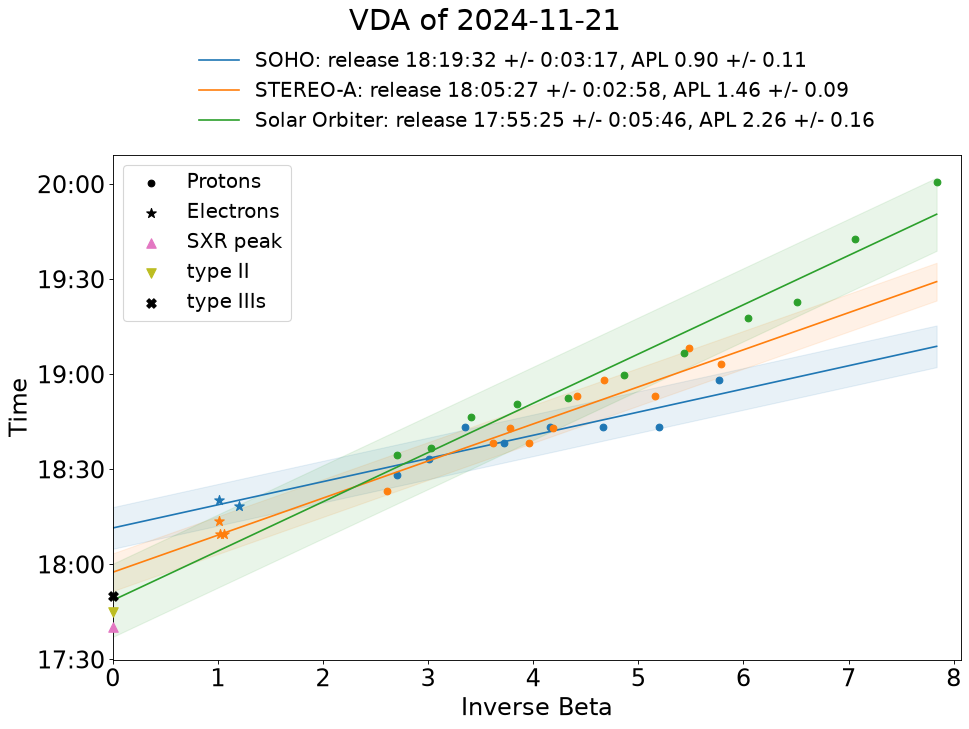
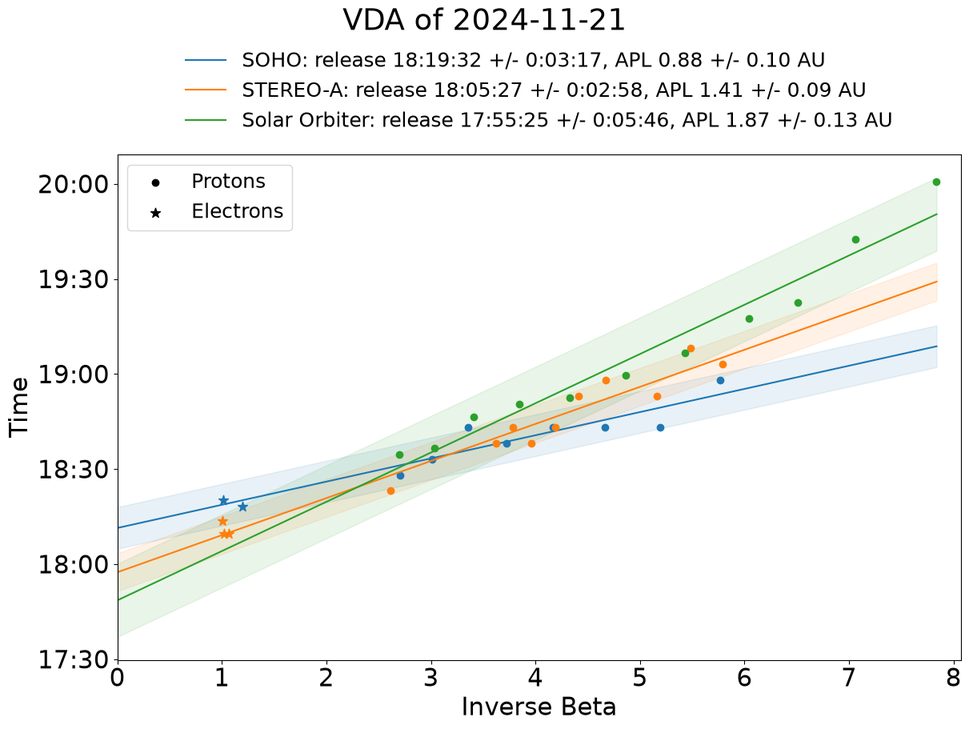
APL in AU
The apparent path length is the path length of the slope of the VDA fit,
L = a * c, in AU. It was divided by the distance of the observer from the
Sun, which made it too large by the factor 1 / distance (e.g. 1.76 instead
of 1.42 AU for Solar Orbiter at 0.80 AU in the default event). The unit is
shown in the printed results and the VDA plots. The release times are
unchanged.

diff --git a/src/spearhead/vda/analysis.py b/src/spearhead/vda/analysis.py
@@ -31,6 +31,10 @@ from .observers import OBSERVERS
 # Rest mass energy of the particles, in MeV
 M_REST = {"protons": 938.27, "electrons": 0.511}
 
+# Light travel time over 1 AU, in seconds: the slope of the VDA line (seconds per inverse beta) divided by it is the
+# path length in AU
+AU_LIGHT_SECONDS = (u.AU / const.c).to(u.s).value
+
 
 def mean_energy(low_energy, high_energy) -> float:
     """Energy of a channel (the geometric mean of its range) in MeV. A single energy has low_energy == high_energy"""
@@ -46,8 +50,8 @@ def fit_vda(inv_betas, onset_seconds, t0, t_sun_to_observer, name) -> tuple:
     """Fits the VDA line of the points: onset_seconds (seconds after t0) against inv_betas.
 
     t_sun_to_observer is the light travel time from the Sun to the observer (seconds), and name names the points in
-    the messages (e.g. "event 1"). Returns the results (release time, extra time, APL and their errors) and the fit
-    (line t = a * inverse beta + b, with the error of b).
+    the messages (e.g. "event 1"). Returns the results (release time, extra time, APL in AU and their errors) and the
+    fit (line t = a * inverse beta + b, with the error of b). The APL is the path length L = a * c of the slope a.
     """
     try:
         p, V = np.polyfit(inv_betas, onset_seconds, 1, cov=True)
@@ -65,8 +69,8 @@ def fit_vda(inv_betas, onset_seconds, t0, t_sun_to_observer, name) -> tuple:
         "Release Time": (t0 + timedelta(seconds=b + t_sun_to_observer)).strftime('%Y-%m-%d %H:%M:%S'),
         "Release Time Error": timedelta(seconds=b_error),
         "Extra Time": timedelta(seconds=t_sun_to_observer),
-        "APL": a / t_sun_to_observer,
-        "APL Error": a_error / t_sun_to_observer,
+        "APL": a / AU_LIGHT_SECONDS,
+        "APL Error": a_error / AU_LIGHT_SECONDS,
     }
     fit = {"a": a, "b": b, "b_error": b_error}
     return results, fit
@@ -759,7 +763,7 @@ class VDA:
                 continue
             print(f"    Release Time : {res['Release Time']} ± {self.format_timedelta(res['Release Time Error'])}")
             print(f"    Extra Time   : {self.format_timedelta(res['Extra Time'])}")
-            print(f"    APL          : {res['APL']:.2f} ± {res['APL Error']:.2f}\n")
+            print(f"    APL          : {res['APL']:.2f} ± {res['APL Error']:.2f} AU\n")
 
     def compute_vda(self):
         """Fits the VDA line of each event and stores the results in self.results"""
@@ -821,7 +825,7 @@ class CustomPointsVDA:
 
     points: DataFrame with the "Onset Time", "Particle" ("protons" or "electrons"), "Low Energy" and "High Energy" (MeV)
     of each point. The energy of a point is the geometric mean of its range; a single energy has equal low and high.
-    distance: distance of the observer from the Sun (AU), for the light travel time (extra time) and the APL.
+    distance: distance of the observer from the Sun (AU), for the light travel time (extra time).
 
     As in VDA, compute_vda() stores the results in self.results and the fit in self.vda_fits, with the event number 1,
     so that views.plot_vda_combined can plot them.

diff --git a/tests/test_custom_points.py b/tests/test_custom_points.py
@@ -105,6 +105,21 @@ def test_custom_points_need_two_points(capsys):
     assert vda.results.loc[1].isna().all() and vda.vda_fits == {}
 
 
+def test_custom_points_published_path_length():
+    # the onsets of the 10 November 2022 event, Solar Orbiter EPT-South electrons at 0.61 AU, read from the VDA figure
+    # of Rodriguez-Garcia et al. (arXiv:2604.12731): L = 0.66 +/- 0.08 AU, release at the Sun 17:08:43
+    energies = [0.036, 0.041, 0.047, 0.054, 0.063, 0.074, 0.087, 0.102, 0.121, 0.143, 0.169, 0.192]
+    onsets = ["17:24:00", "17:23:30", "17:23:00", "17:21:00", "17:19:30", "17:20:30", "17:19:00", "17:19:00",
+              "17:18:00", "17:17:30", "17:18:00", "17:16:00"]
+    vda = CustomPointsVDA(points_df([(f"2022-11-10 {onset}", f"{energy}", "e") for onset, energy in zip(onsets, energies)]),
+                          0.61)
+    vda.compute_vda()
+    assert vda.results.loc[1, "APL"] == pytest.approx(0.66, abs=0.02)
+    fit = vda.vda_fits[1]
+    release_at_the_sun = fit["t0"] + pd.Timedelta(seconds=fit["b"])
+    assert abs(release_at_the_sun - pd.Timestamp("2022-11-10 17:08:43")) < pd.Timedelta(seconds=30)
+
+
 # ---------------------------------------------------------------- points file
 
 def test_read_example_points_file():
@@ -248,7 +263,8 @@ def test_run_vda_from_the_form(displayed, monkeypatch, tmp_path, capsys):
     assert "A\n    Release Time :" in out and "B\n    Release Time :" in out
     assert list(tool.results.index) == ["A", "B"] and tool.results.index.name == "Group"
     assert tool.results.loc["A", "APL"] == pytest.approx(1200 / AU_SECONDS)
-    assert tool.results.loc["B", "APL"] == pytest.approx(2400 / AU_SECONDS)
+    # the same slope at another distance: the same path length
+    assert tool.results.loc["B", "APL"] == pytest.approx(1200 / AU_SECONDS)
     assert [type(o).__name__ for o in displayed] == ["Image"]
     assert [f.name for f in tmp_path.glob("*.png")] == ["2021-10-31_0330_custom_points.png"]
 
@@ -260,7 +276,7 @@ def test_run_vda_from_the_points_file(displayed, capsys):
     tool.run_vda()
     assert list(tool.results.index) == ["SOHO", "STEREO-A", "Solar Orbiter"]
     assert tool.results.loc["STEREO-A", "Release Time"] == "2024-11-21 18:05:27"
-    assert tool.results.loc["Solar Orbiter", "APL"] == pytest.approx(2.26, abs=0.005)
+    assert tool.results.loc["Solar Orbiter", "APL"] == pytest.approx(1.87, abs=0.005)
 
 
 @pytest.mark.parametrize("groups, message", [

diff --git a/src/spearhead/vda/views.py b/src/spearhead/vda/views.py
@@ -217,7 +217,7 @@ def plot_vda(vda, event_no, filename=None, references=None) -> Figure:
     for label in (
         f"Extra Time = {vda.format_timedelta(res['Extra Time'])}",
         f"Release Time = {res['Release Time']} +/- {vda.format_timedelta(res['Release Time Error'])}",
-        f"APL = {res['APL']:.2f} +/- {res['APL Error']:.2f}",
+        f"APL = {res['APL']:.2f} +/- {res['APL Error']:.2f} AU",
     ):
         ax.plot([], [], alpha=0, label=label)
     # legend between the title and the plot
@@ -273,7 +273,8 @@ def plot_vda_combined(vdas, event_no=1, filename=None, references=None, title=No
             [to_time(a * x + b) for x in fit_x],
             color=color,
             label=(f"{label}: release {pd.Timestamp(res['Release Time']):%H:%M:%S} "
-                   f"+/- {vda.format_timedelta(res['Release Time Error'])}, APL {res['APL']:.2f} +/- {res['APL Error']:.2f}"),
+                   f"+/- {vda.format_timedelta(res['Release Time Error'])}, "
+                   f"APL {res['APL']:.2f} +/- {res['APL Error']:.2f} AU"),
         )
         ax.fill_between(
             fit_x,

diff --git a/tests/test_vda_fit.py b/tests/test_vda_fit.py
@@ -57,7 +57,8 @@ def check_exact_line_fit(extra_seconds):
     expected_release = datetime(2021, 10, 31, 3, 0) + timedelta(seconds=extra_seconds)
     assert result["Release Time"] == expected_release.strftime("%Y-%m-%d %H:%M:%S")
     assert pd.Timedelta(result["Extra Time"]).total_seconds() == pytest.approx(extra_seconds, abs=1e-5)
-    assert result["APL"] == pytest.approx(1200 / extra_seconds)
+    # the path length of the slope, in AU, whatever the distance of the observer
+    assert result["APL"] == pytest.approx(1200 / (u.AU / const.c).to(u.s).value)
     assert pd.Timedelta(result["Release Time Error"]).total_seconds() == pytest.approx(0, abs=1e-3)
 
 

diff --git a/src/spearhead/vda/notebook.py b/src/spearhead/vda/notebook.py
@@ -46,7 +46,7 @@ def _print_results(label, res, format_timedelta) -> None:
         return
     print(f"    Release Time : {res['Release Time']} ± {format_timedelta(res['Release Time Error'])}")
     print(f"    Extra Time   : {format_timedelta(res['Extra Time'])}")
-    print(f"    APL          : {res['APL']:.2f} ± {res['APL Error']:.2f}\n")
+    print(f"    APL          : {res['APL']:.2f} ± {res['APL Error']:.2f} AU\n")
 
 
 def _compute_vda(vda) -> None:

diff --git a/tests/test_end_to_end.py b/tests/test_end_to_end.py
@@ -62,7 +62,7 @@ def test_vda_default():
                       'Linear Regression',
                       'Extra Time = 0:06:40',
                       'Release Time = 2021-10-28 15:26:11 +/- 0:03:38',
-                      'APL = 1.76 +/- 0.12']
+                      'APL = 1.42 +/- 0.10 AU']
 
     if not _mpl_old:
         # Strip before returning — don't rely solely on remove_text=True

diff --git a/docs/user_guide.md b/docs/user_guide.md
@@ -122,7 +122,7 @@ The plots of the interactive onset selection show the background level and the t
 
 ## Results
 
-For each event, the release time, the extra time (light travel time from the Sun to the spacecraft) and the apparent path length (APL) are printed with the name of the spacecraft, followed by the VDA plot, titled with the event, its date and the spacecraft (onsets of the proton channels as circles, of the electron channels as stars), which can also be saved as a .png file (Views/Plots tab). Reference times (e.g. SXR peak, type II and type III radio bursts), added in the Views/Plots tab with a label and a datetime ("Add Reference Time", also `tool.reference_times = [("SXR peak", datetime(2021, 10, 28, 15, 35))]`), are shown at inverse beta 0 in the VDA plot of the event whose data range contains them, with the fit line extended to inverse beta 0. The results of all the events are stored in the `tool.vda.results` table. For many events, `tool.vda.compute_vda()` followed by `tool.vda.print_results()` gives the results without creating the plots.
+For each event, the release time, the extra time (light travel time from the Sun to the spacecraft) and the apparent path length (APL) are printed with the name of the spacecraft. The VDA fit is the line $t = a \cdot \beta^{-1} + b$ of the onset times against the inverse beta of the channels, and the APL is the path length of its slope, $L = a \cdot c$, in AU. The results are followed by the VDA plot, titled with the event, its date and the spacecraft (onsets of the proton channels as circles, of the electron channels as stars), which can also be saved as a .png file (Views/Plots tab). Reference times (e.g. SXR peak, type II and type III radio bursts), added in the Views/Plots tab with a label and a datetime ("Add Reference Time", also `tool.reference_times = [("SXR peak", datetime(2021, 10, 28, 15, 35))]`), are shown at inverse beta 0 in the VDA plot of the event whose data range contains them, with the fit line extended to inverse beta 0. The results of all the events are stored in the `tool.vda.results` table. For many events, `tool.vda.compute_vda()` followed by `tool.vda.print_results()` gives the results without creating the plots.
 
 ## Multiple spacecraft
 

diff --git a/CHANGELOG.md b/CHANGELOG.md
@@ -4,6 +4,12 @@ All notable changes of the SPEARHEAD VDA tool. The format is based on [Keep a Ch
 
 ## [Unreleased]
 
+### Fixed
+- The apparent path length (APL) is in AU: the path length $L = a \cdot c$ of the slope $a$ of the VDA fit. It was the path length divided by the distance of the observer from the Sun, too large by the factor 1 / distance (e.g. 1.76 instead of 1.42 AU for Solar Orbiter at 0.80 AU in the default event). The unit is shown in the printed results and the VDA plots.
+
+### Upgrading from 1.1.0
+- The APL of every analysis changes, except for an observer at 1 AU: multiply a previous APL by the distance of the observer from the Sun (AU) to compare. The release times are unchanged.
+
 ## [1.1.0] - 2026-10-17
 
 ### Added
